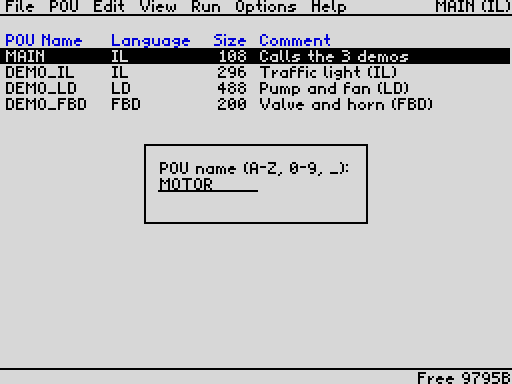
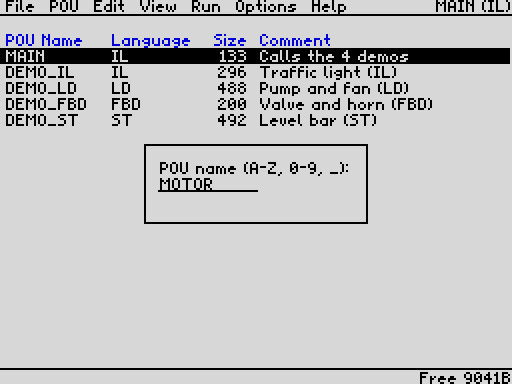
ST: manual chapter, README, About, screenshots
docs/MANUAL.md gets chapter 9 (ST editor: keys, statements, operators,
limits), the ST simulation, DEMO_ST in the demo table; the chapters after
it move by one. README and Help > About list ST. docshots: st_editor and
sim_st, the other images regenerated (5 POUs, 4 languages).

Claude-Session: https://claude.ai/code/session_01VKWfWdLZ4jVfo626yCcR9d

diff --git a/tools/docshots.py b/tools/docshots.py
@@ -20,6 +20,7 @@ MENU = "w30 k:CS+SPACE w5 "                   # open the menu bar
 IL = "w30 " + D + "k:ENTER w40 "              # open DEMO_IL
 LD = "w30 " + D * 2 + "k:ENTER w40 "          # open DEMO_LD
 FBD = "w30 " + D * 3 + "k:ENTER w40 "         # open DEMO_FBD
+ST = "w30 " + D * 4 + "k:ENTER w60 "          # open DEMO_ST
 RUN = "k:CS+1 w10 k:R w10 k:R w80 "           # Run > Run
 
 SHOTS = [
@@ -39,10 +40,12 @@ SHOTS = [
     ("fbd_editor", FBD + D + "k:CS+8 w4 k:CS+8 w4 k:CS+8 w20"),
     ("fbd_picker", FBD + D + "k:ENTER w30"),
     ("fbd_pv", FBD + D * 6 + "k:CS+8 w4 " * 5 + "k:T w30"),
+    ("st_editor", ST + D * 3 + "w10"),
     ("symbols", MENU + "k:E w5 k:S w60"),
     ("sim_il", IL + RUN + "k:0 w150"),
     ("sim_ld", LD + RUN + "k:4 w60"),
     ("sim_fbd", FBD + RUN + "k:B w5 k:0 w5 k:2 w60"),
+    ("sim_st", ST + RUN + "w80 k:2 w20 k:2 w20 k:2 w20 k:2 w20 k:2 w20 k:2 w60"),
     ("sim_watch", FBD + RUN + "k:B w5 k:0 w5 k:2 w30 k:W w40 " + D * 4 + "k:F w40"),
     ("sim_trend", IL + "k:CS+SPACE w5 k:V w5 k:S w40 " + RUN + "k:G w20 k:0 w600"),
     ("xref", IL + D + "k:SS+X w60"),

diff --git a/docs/MANUAL.md b/docs/MANUAL.md
@@ -1,8 +1,8 @@
 # ZX-PLC User Manual
 
 ZX-PLC is a PLC programming environment for the **ZX Spectrum 128K** (also +2 / +2A / +3). It edits
-programs in three IEC 61131-3 languages: Instruction List (IL), Ladder Diagram (LD) and Function Block
-Diagram (FBD). It runs them in a built-in simulation with live monitoring, a watch / force table and
+programs in four IEC 61131-3 languages: Instruction List (IL), Ladder Diagram (LD), Function Block
+Diagram (FBD) and Structured Text (ST). It runs them in a built-in simulation with live monitoring, a watch / force table and
 virtual inputs and outputs. Projects are saved to and loaded from tape.
 
 The screenshots in this manual come from the program itself; `make docs` regenerates them.
@@ -17,12 +17,13 @@ The screenshots in this manual come from the program itself; `make docs` regener
 6. [IL editor](#6-il-editor)
 7. [LD editor](#7-ld-editor)
 8. [FBD editor](#8-fbd-editor)
-9. [Symbol editor](#9-symbol-editor)
-10. [Simulation](#10-simulation)
-11. [Watch and force table](#11-watch-and-force-table)
-12. [Tools: undo, copy and paste, cross references, add to watch](#12-tools-undo-copy-and-paste-cross-references-add-to-watch)
-13. [The demo project](#13-the-demo-project)
-14. [Reference](#14-reference)
+9. [ST editor](#9-st-editor)
+10. [Symbol editor](#10-symbol-editor)
+11. [Simulation](#11-simulation)
+12. [Watch and force table](#12-watch-and-force-table)
+13. [Tools: undo, copy and paste, cross references, add to watch](#13-tools-undo-copy-and-paste-cross-references-add-to-watch)
+14. [The demo project](#14-the-demo-project)
+15. [Reference](#15-reference)
 
 ---
 
@@ -184,7 +185,7 @@ Each menu title opens a drop-down list. The first letter of a title or item is i
 |---|---|
 | Sound | key click and error tone on / off |
 | Mouse | Kempston mouse on / off (only when one is found) |
-| UR-4 I/O | real inputs and outputs through a UR-4 interface on / off (only when one is found, see [10](#10-simulation)) |
+| UR-4 I/O | real inputs and outputs through a UR-4 interface on / off (only when one is found, see [11](#11-simulation)) |
 
 ### Help
 
@@ -422,7 +423,58 @@ ENTER opens the picker. On a block input, outputs are not offered:
   * Whatever fed its other inputs is removed.
   * The network then closes up and empty rows below it disappear.
 
-## 9. Symbol editor
+## 9. ST editor
+
+![ST editor (DEMO_ST)](img/st_editor.png)
+
+Structured Text is written line by line, like IL, but a statement may span several lines. The editor
+works like a small text editor:
+
+* Keywords (`IF`, `THEN`, `END_IF`, `AND`, ...) are dark blue and start on a character cell, so the text
+  after a keyword can have a small gap. Comments (`// text` to the end of the line, or `(* text *)`) are
+  dark green.
+* **The indent is automatic:** the line after `THEN`, `ELSE`, `DO`, `OF` or `REPEAT` moves one step to
+  the right, a line starting with `END_IF`, `ELSE`, `ELSIF`, `END_FOR`, `UNTIL`, ... one step back.
+* Leaving a line (ENTER, UP, DOWN, the menu) checks it: unknown characters, an unclosed `(*` comment and
+  unknown names are reported in a popup and the cursor stays on the line. Keywords are stored in upper
+  case and the spaces between the words are normalised. The whole program is checked by the compiler
+  (Run > Run); an error opens the editor at its line, the message is in the status bar.
+* ENTER splits the line at the cursor (at the end: a new empty line below), SS+ENTER opens an empty line
+  below. DELETE deletes the character left of the cursor; on an empty line it removes the line.
+  SS+LEFT / SS+RIGHT go to the start / end of the line, SS+UP / SS+DOWN page.
+* SS+X and SS+W take the operand under (or just before) the cursor.
+
+**Statements**
+
+```
+x := expression;
+IF c THEN ... ELSIF c THEN ... ELSE ... END_IF;
+CASE e OF 1: ...; 2, 3: ...; 4..9: ...; ELSE ... END_CASE;
+FOR i := 1 TO 10 BY 2 DO ... END_FOR;
+WHILE c DO ... END_WHILE;
+REPEAT ... UNTIL c END_REPEAT;
+EXIT;                          (leaves the innermost loop)
+RETURN;                        (ends the POU)
+TON0(IN := Start, PT := T#5s, Q => Lamp);
+SUB1();                        (calls the POU SUB1)
+```
+
+* **Expressions** use the operands of [chapter 5](#5-operands-and-symbols), `( )` and the operators, from
+  the weakest: `OR`, `XOR`, `AND` (`&`), `=` `<>`, `<` `>` `<=` `>=`, `+` `-`, `*` `/` `MOD`, and the
+  unary `NOT` and `-`. Comparisons give BOOL, arithmetic INT (16 bit signed). `NOT` of an INT inverts its
+  bits.
+* **Assignment** targets are outputs, memory bits, INT words, step flags and FB members (`TON0.PT := ...`).
+* **FB call:** `INST(member := expression, ...)` writes the inputs, runs the block and copies the outputs
+  given with `member => target` (up to 4). The outputs can also be read later as `TON0.Q`, `CTU1.CV`.
+  Inputs left out keep their last value.
+* **FOR:** the step after `BY` is a constant (default 1; a negative step counts down). The end value is
+  evaluated before every pass.
+* **CASE** labels are INT constants, lists (`2, 3`) and ranges (`4..9`).
+* A loop that never ends is stopped by the watchdog (30000 instructions per scan).
+* `VAR` ... `END_VAR` and the types `BOOL`, `INT`, `TIME` are reserved for declarations of variables
+  in a later version; today the variables are the operands and their symbols.
+
+## 10. Symbol editor
 
 ![Symbol editor](img/symbols.png)
 
@@ -432,9 +484,10 @@ dark blue), the address (black) and a comment (up to 30 characters, dark green).
 * SPACE moves between the fields; ENTER, UP and DOWN store the row.
 * The empty last row adds a symbol.
 * Clearing the name and the comment removes a symbol, as does Edit > Delete line.
-* Symbols can name inputs, outputs, memory bits, step flags, system flags and FB instances.
+* Symbols can name inputs, outputs, memory bits, INT words (`%MW`), step flags, system flags and FB
+  instances. In ST, named INT words work as variables (`Level := Level + 1;`).
 
-## 10. Simulation
+## 11. Simulation
 
 **Run > Run** compiles all POUs and runs MAIN once per frame. A compile error opens the editor of that POU at
 the faulty line or element; the message is shown in the status bar.
@@ -452,6 +505,11 @@ the faulty line or element; the message is shown in the status bar.
   * In FBD, the names of TRUE operands and the insides of TRUE blocks are green:
 
     ![Simulation of DEMO_FBD](img/sim_fbd.png)
+
+  * ST lines show the value of the variable they assign (`x := ...`), of the single operand of
+    `IF x THEN`, `WHILE x DO`, `UNTIL x`, `CASE x OF`, `FOR x := ...`, or the ET of a timer call:
+
+    ![Simulation of DEMO_ST](img/sim_st.png)
 
 * The lower panel shows the 16 inputs (green) and the 16 outputs (red) with their bit numbers. The half
   of the selected byte has a bright paper.
@@ -490,7 +548,7 @@ interface answers, otherwise "No UR-4 interface" is shown. It is off after the s
 * The interface itself (ports, control words, connectors) is described in Czech in
   [manual_ur-4.md](manual_ur-4.md).
 
-## 11. Watch and force table
+## 12. Watch and force table
 
 `W` in the simulation (or **Run > Watch**) shows the watch list of the project. It holds up to 16 operands
 with their symbols and live values and is saved with the project.
@@ -530,7 +588,7 @@ of its instance (`T_Red` for `TON0.ET`); an operand without a symbol keeps its a
 * The inputs keep working (`0`-`7`, `R`), so a program can be tried out and its signals compared in time.
 * Other words (`%MW`, constants) are not drawn. Operands are added on the watch page (`W`).
 
-## 12. Tools: undo, copy and paste, cross references, add to watch
+## 13. Tools: undo, copy and paste, cross references, add to watch
 
 **Undo (SS+U, Edit > Undo)** returns the project to its state before the last key that changed it, for
 example a deleted line, element or POU. Pressed again, it goes further back, step by step.
@@ -543,8 +601,8 @@ is cleared when a project is loaded from tape.
 **Copy and paste.** SS+A (Edit > Mark block) marks the start of a block at the cursor line / row; moving
 the cursor selects the block, shown by a bar at the left screen edge. SS+A again removes the mark.
 SS+D (Edit > Copy) copies the block to the clipboard, Edit > Cut copies it and deletes it. Without a mark
-the current IL line, LD rung or FBD network is taken. SS+F (Edit > Paste) inserts the clipboard in front
-of the cursor line (IL) or in front of the rung / network of the cursor (LD / FBD), also in another POU of
+the current IL / ST line, LD rung or FBD network is taken. SS+F (Edit > Paste) inserts the clipboard in
+front of the cursor line (IL, ST) or in front of the rung / network of the cursor (LD / FBD), also in another POU of
 the same language. The status bar shows what was copied or pasted.
 
 ![A marked block (lines 3-5)](img/clip_mark.png)
@@ -559,7 +617,7 @@ the same language. The status bar shows what was copied or pasted.
 language and comment under a new name.
 
 **Cross references (SS+X, View > Cross references)** list every use of the operand at the cursor. It
-works on an IL line, an LD / FBD element or a symbol; in the POU list it finds the calls of the POU. Each
+works on an IL line, the word at the cursor in ST, an LD / FBD element or a symbol; in the POU list it finds the calls of the POU. Each
 entry shows the POU, the line (or the row and position) and whether the operand is read, written or
 called. ENTER opens the editor at that place.
 
@@ -570,22 +628,24 @@ FB instance it adds the ET of a timer, the CV of a counter, or the Q of the othe
 
 ![Added to watch](img/add_watch.png)
 
-## 13. The demo project
+## 14. The demo project
 
 The demo starts with the program and can be loaded again with File > Open demo. Each part uses its own
 inputs and outputs:
 
 | POU | Function | Inputs | Outputs |
 |---|---|---|---|
-| MAIN | calls the three demos | | |
+| MAIN | calls the four demos | | |
 | DEMO_IL | traffic light as a step sequence (S0.0-S0.4), one TON per step | `0` start, `1` stop | Q0.0-Q0.2 |
 | DEMO_LD | pump with self-holding, fan run-on (TOF), alert memory (P / N contacts, set / reset), blinking lamp (2 x TP) | `4`-`7` | Q0.4-Q0.6 |
 | DEMO_FBD | inlet valve with nested gates and a 2 s run-on, overflow horn (RT, SR), service counter (CTU, after 3 fills) | byte 1: `B`, then `0`-`5` | Q1.0-Q1.2 |
+| DEMO_ST | level bar: each press of Up (R_TRIG) raises Level 0-5, the bar outputs, a FOR sum and a CASE range | `2` up, `3` clear | Q0.3, Q0.7, Q1.3 |
 
 A symbol table names all of them. The watch list contains the traffic light (the ET of each of its four timers followed by its light,
-shown first on the trend page), HighLvl, Valve, Horn, TValve.ET and Fills.CV.
+shown first on the trend page), HighLvl, Valve, Horn, TValve.ET, Fills.CV, Level (DEMO_ST) and the scan
+times.
 
-## 14. Reference
+## 15. Reference
 
 ### Standard function blocks
 
@@ -609,5 +669,8 @@ shown first on the trend page), HighLvl, Valve, Horn, TValve.ET and Fills.CV.
 | Call depth | 8 |
 | Watchdog | 30000 instructions per scan |
 | Edge contacts (P / N) | 32 per project |
+| ST line | 60 characters |
+| ST expression | 8 nested right sides (`a - (b - (c - ...))`) |
+| ST FB call outputs (`=>`) | 4 per call |
 
 For the program structure, memory map and build details see `README.md` and `CLAUDE.md`.

diff --git a/CLAUDE.md b/CLAUDE.md
@@ -2,7 +2,7 @@
 
 This file provides guidance to Claude Code (claude.ai/code) when working with code in this repository.
 
-ZX-PLC is a PLC editor and simulator (IEC 61131-3: IL, LD, FBD) for the ZX Spectrum 128K. It is written
+ZX-PLC is a PLC editor and simulator (IEC 61131-3: IL, LD, FBD, ST) for the ZX Spectrum 128K. It is written
 in Z80 assembler for sjasmplus. Programs only run in the built-in simulation (optionally with real I/O
 through a UR-4 interface); projects are saved and loaded on tape or on an SD card (divMMC with esxDOS).
 There is also a browser version (GitHub Pages, JSSpeccy). README.md and docs/MANUAL.md describe every
@@ -75,7 +75,7 @@ editor and key for users.
   per image, `--noborder`). Update the manual and the scripts when the UI changes.
 - `python3 tools/fixjr.py main.asm`: builds and converts every out-of-range `jr` to `jp` in the source,
   then prints the remaining errors. Run it after edits that make code longer.
-- `python3 tools/xref.py --check "pou:R,app:E,il_edit:E,sym_edit:E,ld_edit:E,sim:E,demo:E,il_comp:R,vm:R,ld_comp:R,fbd_comp:R,tape:R,tests:E,fbd_edit:F,tools:D,clip:D,wexpr:D,mouse:D,undo:S,ur4:D,trend:D,sd:R"`:
+- `python3 tools/xref.py --check "pou:R,app:E,il_edit:E,sym_edit:E,ld_edit:E,sim:E,demo:E,il_comp:R,vm:R,ld_comp:R,fbd_comp:R,st_comp:R,tape:R,tests:E,fbd_edit:F,st_edit:F,tools:D,clip:D,wexpr:D,mouse:D,undo:S,ur4:D,trend:D,sd:R"`:
   reports labels referenced across paged banks without `BCALL`. Unlisted modules are core. The
   `run_tests` / `demo_build` hits in main.asm are expected. Extend the map when a module moves.
 - Headless emulator: `.scratch/venv/bin/python tools/zxrun.py zxplc.sna -f 30 -s "<script>"`
@@ -106,13 +106,14 @@ editor and key for users.
   - The project at 0x9000-0xBFFF (12 KB).
 - **Paged banks at 0xC000.** `main.asm` decides which module goes where:
   - EDIT 0: IL, LD and symbol editors, simulation screen, tests (~2.8 KB free).
-  - RUN 4: compilers, VM, bytecode at 0xF000, POU list, tape, SD card (`src/sd.asm`). It is uncontended,
-    which tape timing needs (~3.6 KB free).
+  - RUN 4: compilers (also `src/st_comp.asm`), VM, bytecode at 0xF000, POU list, tape, SD card
+    (`src/sd.asm`). It is uncontended, which tape timing needs (~0.3 KB free; 0xF800-0xFDFC above
+    `BCODE_END` is still unused).
   - DATA 1: the popup save buffer and the clipboard (`clip_buf`, filled by `src/clip.asm`).
   - DEMO 3: `src/tools.asm` (cross references, watch / force page of the simulation, Help texts),
     `src/clip.asm` (mark / copy / cut / paste, called by the editors with `BCALL cl_cmd` / `mk_draw`),
-    `src/wexpr.asm`, `src/mouse.asm`, `src/ur4.asm`, `src/trend.asm`, `menu_cmd` / `menu_active` (menu commands, check marks), the About box with twinkling stars and the top-border scroller (`tl_about`, `bd_*`) and the demo image (~3.7 KB free).
-  - FBD 6: the FBD editor (~7.5 KB free).
+    `src/wexpr.asm`, `src/mouse.asm`, `src/ur4.asm`, `src/trend.asm`, `menu_cmd` / `menu_active` (menu commands, check marks), the About box with twinkling stars and the top-border scroller (`tl_about`, `bd_*`) and the demo image (~1.1 KB free).
+  - FBD 6: the FBD editor and the ST editor `src/st_edit.asm` (~2.8 KB free).
   - SPARE 7: undo / redo (`src/undo.asm`): the code, the history records growing up from `UM_REC`, and
     the shadow copy of the project ending at the IM2 stub. The tape load copies the project to `UM_BAK`
     (= `UM_REC`) and calls `um_reset`.
@@ -218,6 +219,25 @@ editor and key for users.
     rows are handled like preset cells by `fb_prow`. Placing an FBD block only chooses the operator
     (`wx_opsel`); the values are asked one at a time on their cells (`wx_value`). A block right behind a compute result takes D as its
     A (`fc_link` in fbd_comp.asm, the same when placed).
+- **Structured Text** (LANG_ST):
+  - Body: line records `[len][K_STXT][indent][text]` (no 0). The text is stored as typed, only
+    normalised (keywords upper case, one space between tokens), so names are resolved when compiling;
+    a later VAR / END_VAR declaration (reserved keywords today) only changes the name lookup.
+  - `src/st_lex.asm`: the tokenizer and the keyword table, included twice inside `MODULE ste` (FBD bank,
+    the editor) and `MODULE stc` (RUN bank, the compiler); keyword ids `KW_*`, token types `T_*`, two-char
+    symbols `S_*` are in defs.asm.
+  - `src/st_edit.asm` (FBD bank): own line editor on the IL principles. `st_render` lays a line out:
+    keywords and comments start on x = 8k+1 so their cells can be coloured (rn_attr); the same layout gives
+    the cursor x and the width check. The indent is derived from the line above (`st_iinfo`, `st_reind`:
+    +1 after THEN / ELSE / DO / OF / REPEAT / an UNTIL line, -1 for END_* / ELSE / ELSIF / UNTIL).
+    `st_sim_row` draws a line for the simulation (cells 0-24) and puts the watched operand in rd_o;
+    `st_xr_line` serves the cross references; `st_add_line` + `st_load_text` (app.asm) load text
+    (demo, tests; the text goes through il_out, fixed memory).
+  - `src/st_comp.asm` (RUN bank): recursive descent over the tokens of all lines. Expressions on the
+    accumulator VM: a single-operand right side is `OP x`, anything else `PUSH op` / right side / `POP`
+    (8 levels). Forward jumps are chained through their arg field and patched (`sc_patchl`). CASE compiles
+    the selector again per label (`sc_mark` / `sc_goto` re-read the token stream). Errors leave via
+    `sc_err` (SP restored), the message is copied to il_out (fixed memory, read by the editor).
 - **Compile and run:**
   - `il_compile` (RUN) compiles every POU to 5-byte bytecode `[op][mode][arg lo][arg hi][arg3]`:
     IL in two passes, LD and FBD column by column with scratch bits S[row] (src/ld_comp.asm,

diff --git a/README.md b/README.md
@@ -2,25 +2,27 @@
 
 <img src="img/zxplc_load.png" width="512" alt="ZX-PLC loading screen">
 
-A PLC programming environment for the **ZX Spectrum 128K** (also +2 / +2A / +3): editors for the three
-IEC 61131-3 languages IL, LD and FBD, a compiler and a simulator, written in Z80 assembler. Programs are
+A PLC programming environment for the **ZX Spectrum 128K** (also +2 / +2A / +3): editors for four
+IEC 61131-3 languages (IL, LD, FBD and ST), a compiler and a simulator, written in Z80 assembler. Programs are
 not downloaded to a real PLC; they run in the built-in simulation with live monitoring.
 
 **[Video tour (YouTube, 11 min)](https://youtu.be/W62mHPIHemU)** · **[Try it in the browser](https://pomaser.github.io/zx_plc/)** · **[User manual with screenshots](docs/MANUAL.md)** · **[Download (releases)](https://github.com/Pomaser/zx_plc/releases)**
 
 ## What it does
 
-* **Three languages:**
+* **Four languages:**
   * Instruction List: a line editor with syntax checking.
   * Ladder Diagram: contacts, coils, branches, boxes.
   * Function Block Diagram: blocks nest and make room for themselves.
+  * Structured Text: IF / CASE / FOR / WHILE / REPEAT, expressions, FB calls; keywords in blue and an
+    automatic indent.
 * **Up to 8 POUs per project:** MAIN calls the others. A project holds up to 12 KB.
 * **Standard function blocks:** TON / TOF / TP timers, CTU / CTD counters, R_TRIG / F_TRIG, SR / RS. Also
   word compare and arithmetic (GT … LT, ADD, SUB, MUL, DIV, MOVE), step flags for sequences, system flags
   and clock pulses.
 * **Simulation:**
   * a scan every 50th of a second, 16 inputs and 16 outputs on an LED panel;
-  * live colouring of the program in all three languages;
+  * live colouring of the program in LD and FBD, live values in IL and ST;
   * a watch / force table, a trend page (time charts of the watched signals and timer / counter progress), step and reset.
 * **Symbols:** names and comments for every address, used everywhere instead of addresses.
 * **A demo project** (traffic light in IL, pump and fan in LD, valve and horn in FBD) opens at the start.
@@ -39,7 +41,7 @@ not downloaded to a real PLC; they run in the built-in simulation with live moni
   * undo and redo over many steps, duplicate a POU;
   * cross references with a jump to each use;
   * Run puts the cursor on the line or element of a compile error.
-* **A real compiler:** IL, LD and FBD are compiled to bytecode for a small virtual machine. LD and FBD go
+* **A real compiler:** IL, LD, FBD and ST are compiled to bytecode for a small virtual machine. LD and FBD go
   column by column, like a PLC evaluates a rung.
 * **The whole 128K in use:**
   * the editors, compilers, VM and tools are spread over the paged memory banks, with calls between them;
